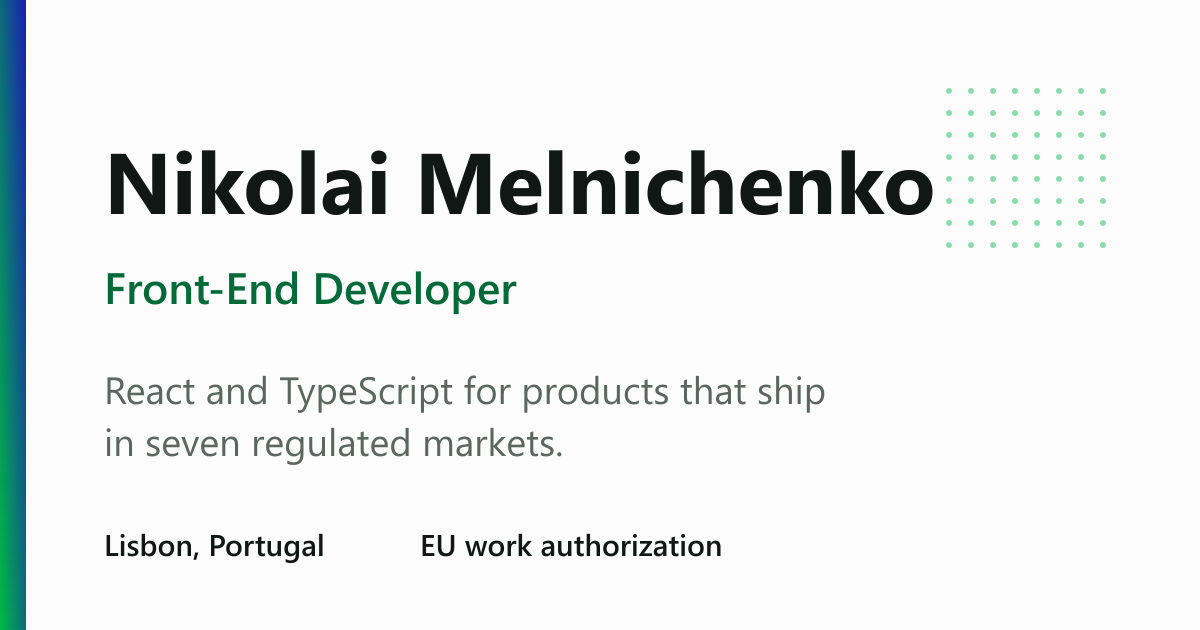
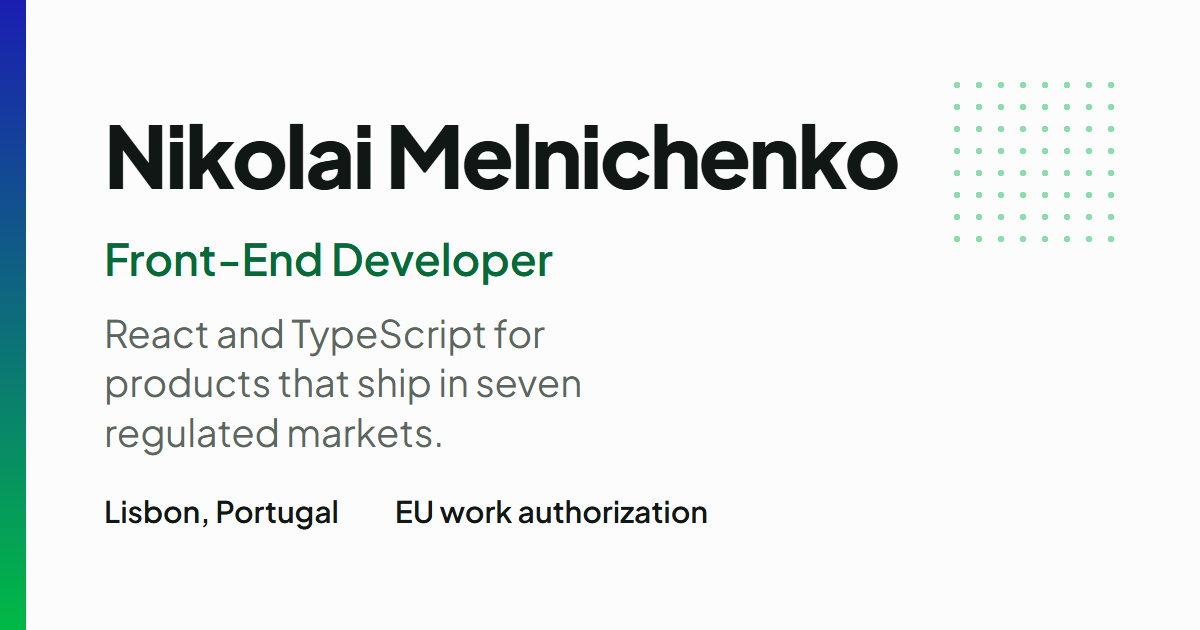
added license, hardened tsconfig, og card through chromium

diff --git a/src/content.config.ts b/src/content.config.ts
@@ -1,5 +1,6 @@
-import { defineCollection, z } from 'astro:content';
+import { defineCollection } from 'astro:content';
 import { glob } from 'astro/loaders';
+import { z } from 'zod';
 
 const projects = defineCollection({
   loader: glob({ base: './src/content/projects', pattern: '**/*.md' }),
@@ -14,7 +15,7 @@ const projects = defineCollection({
       outcome: z.string(),
       cover: image(),
       coverAlt: z.string(),
-      url: z.string().url(),
+      url: z.url(),
     }),
 });
 
